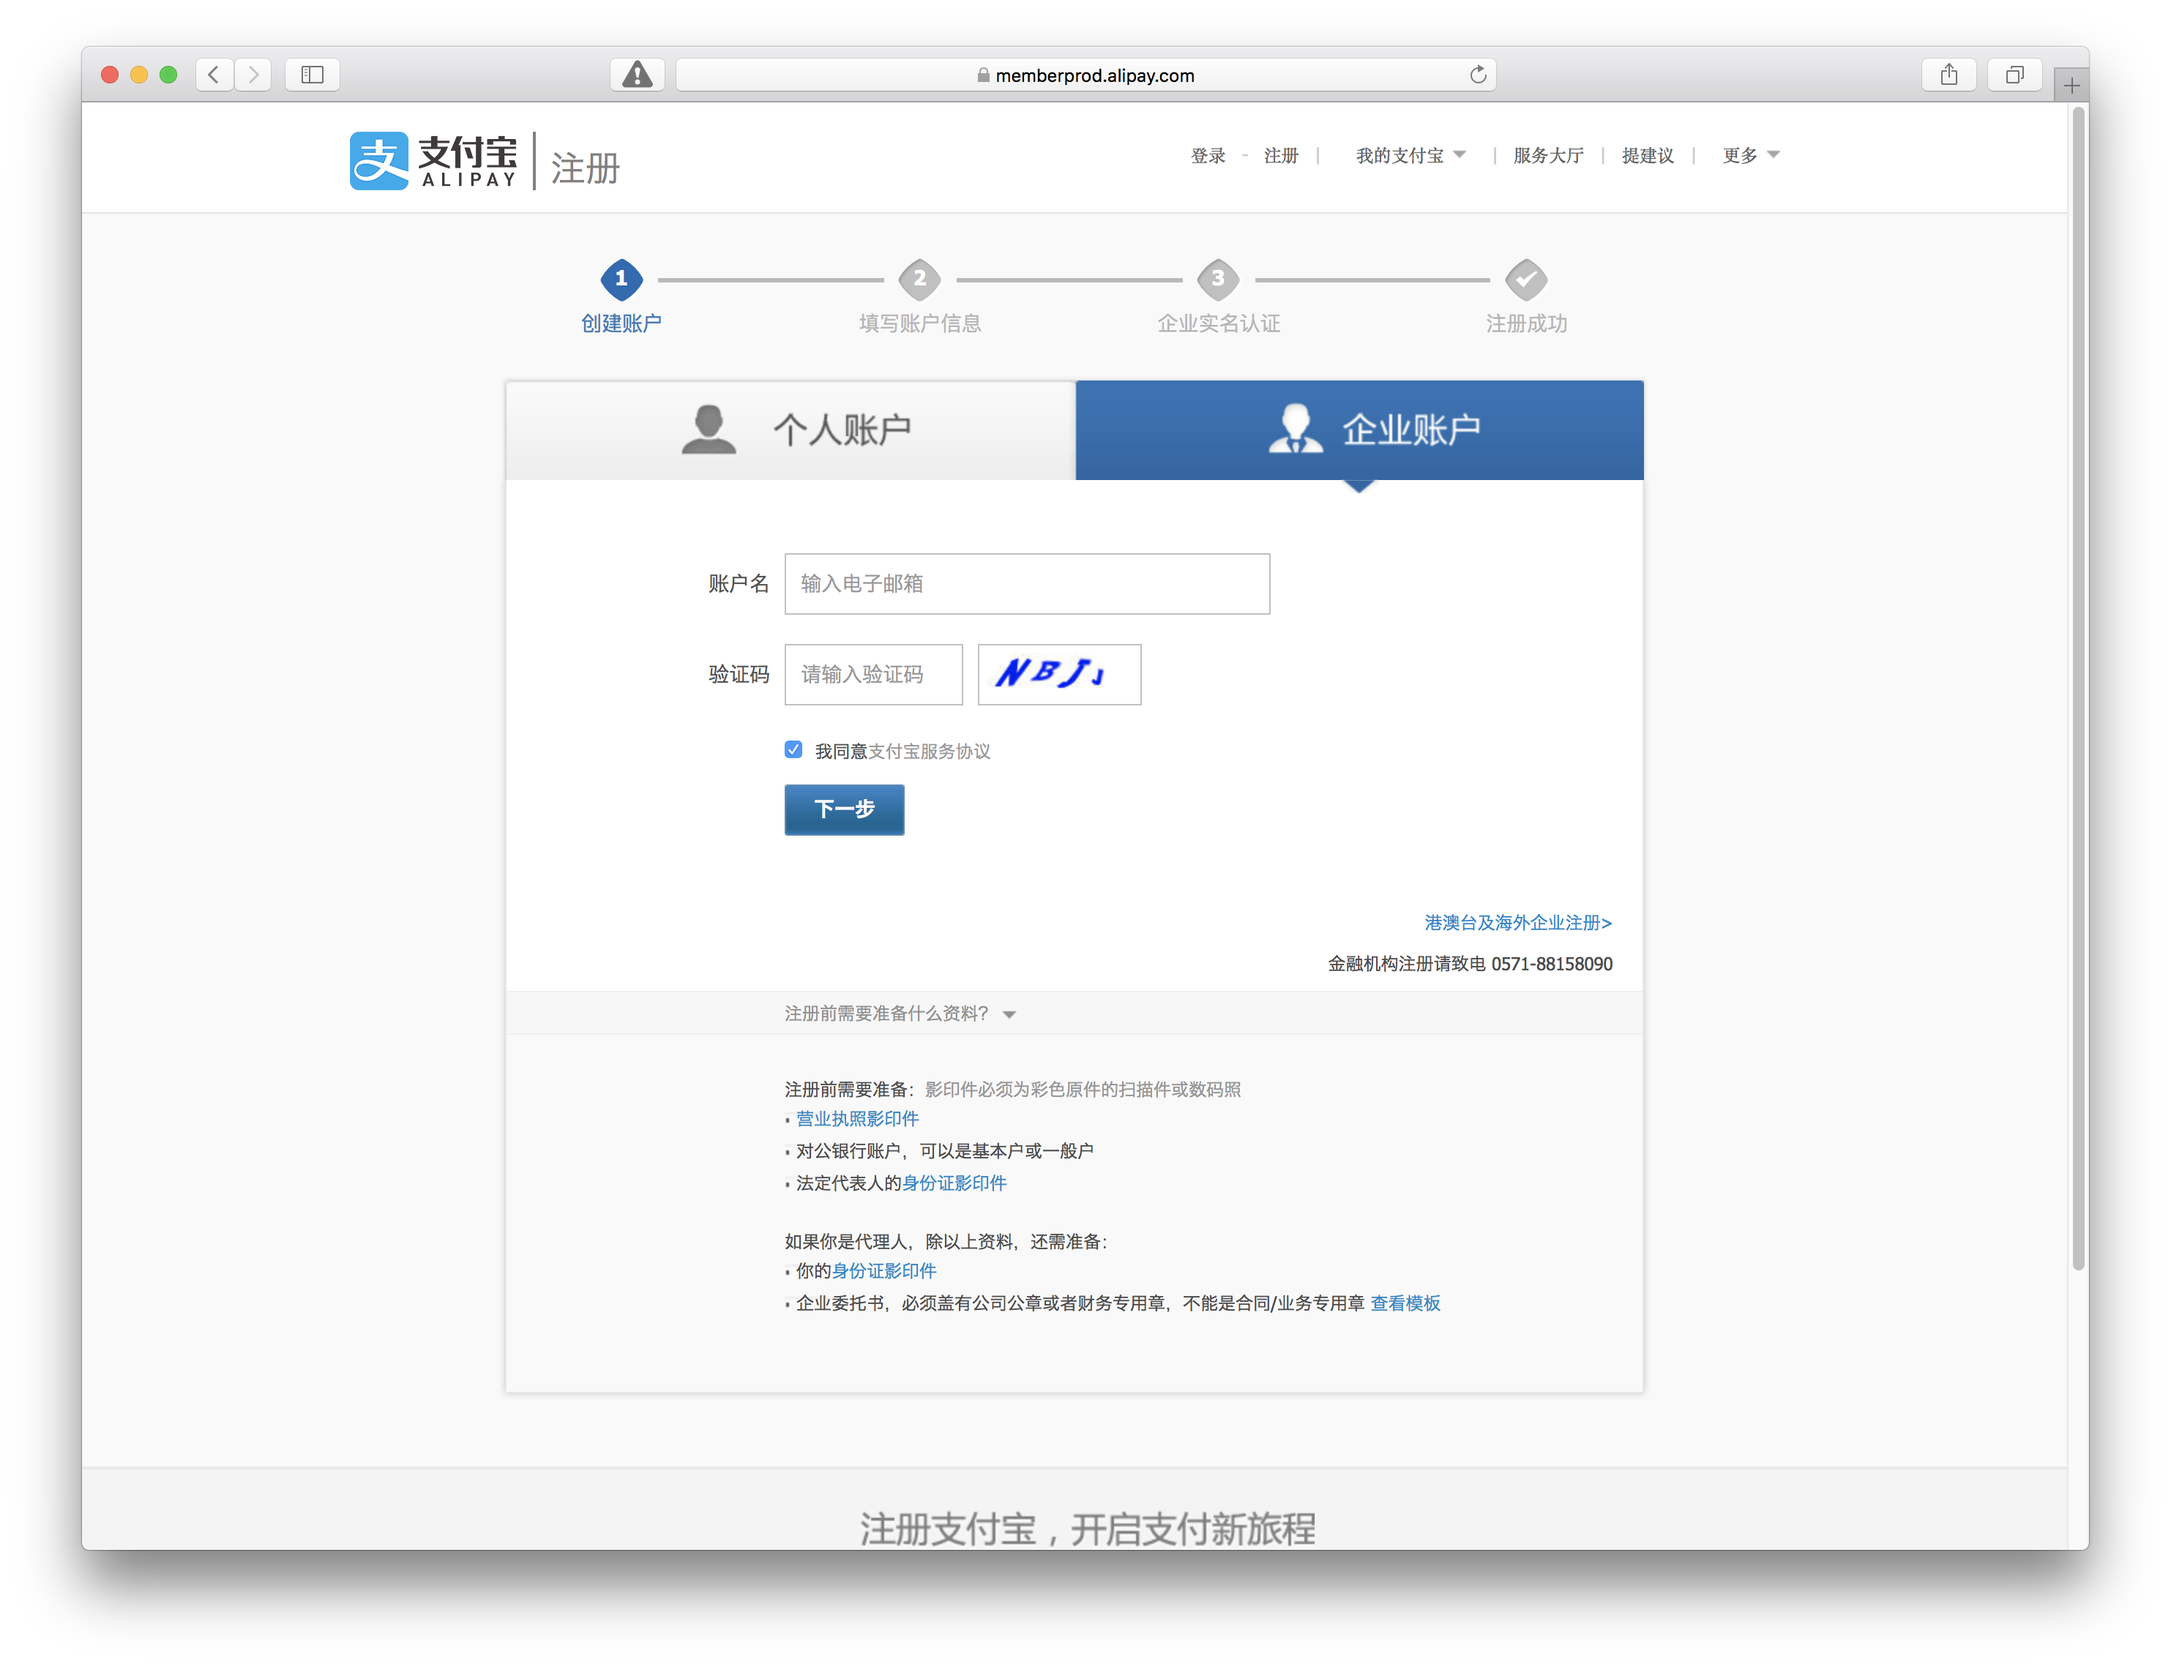
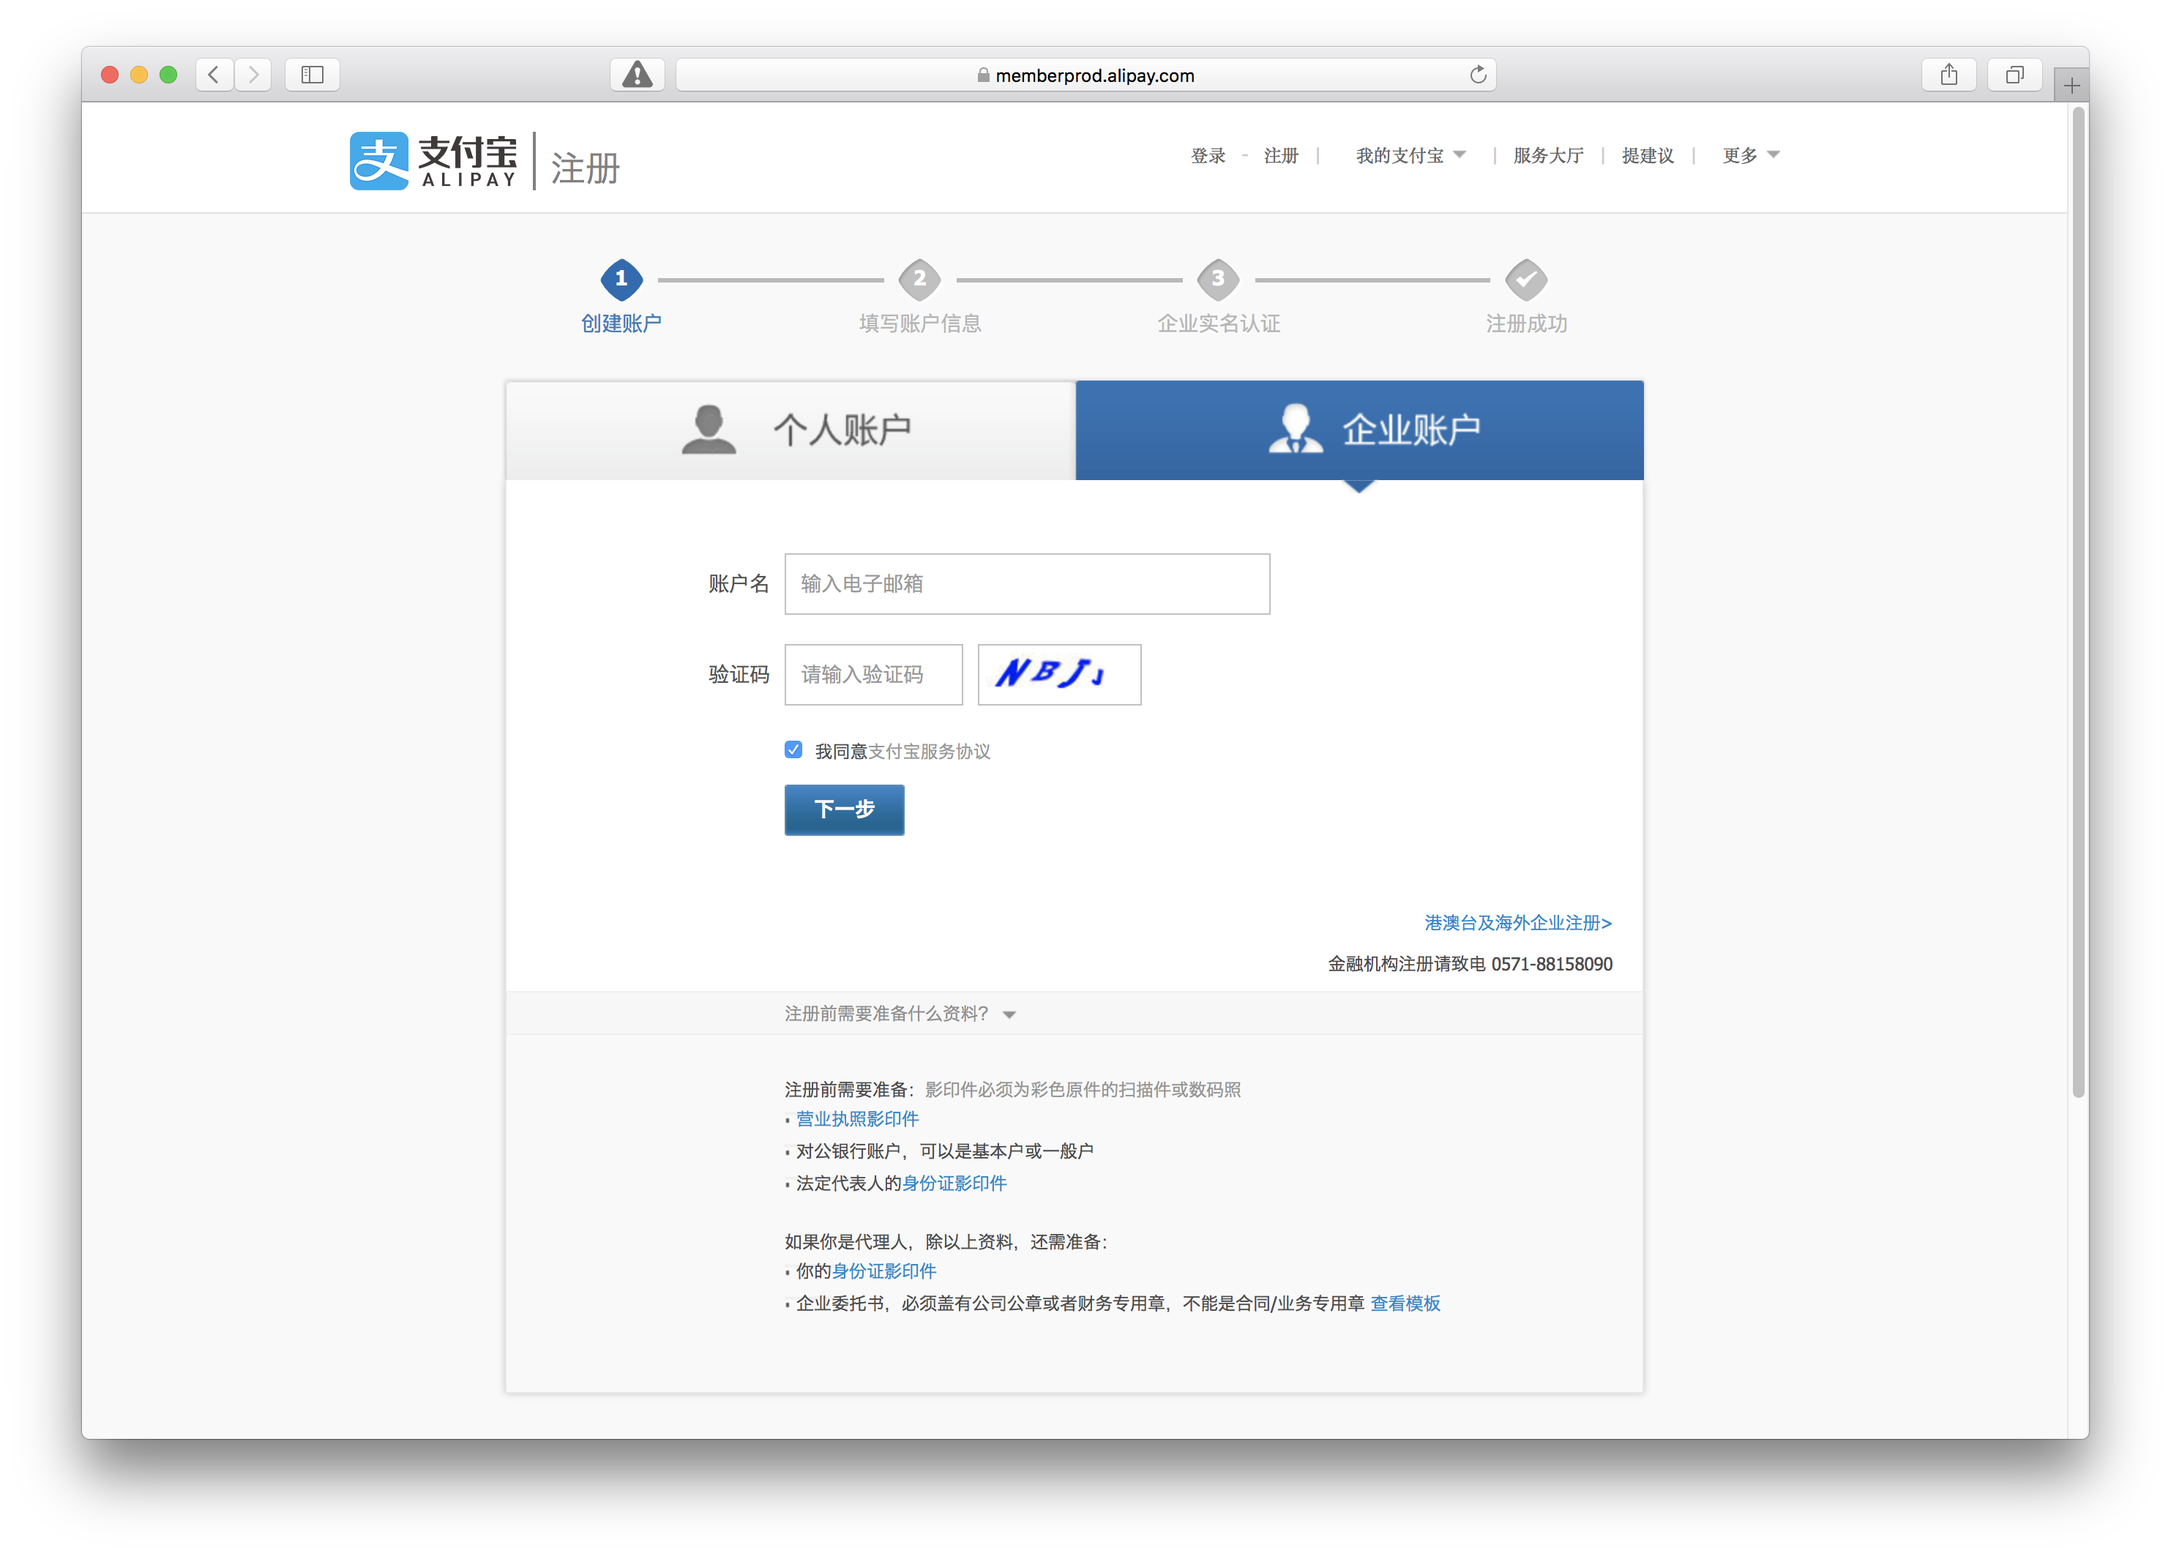
alipay signup image

diff --git a/blog/cn/README.md b/blog/cn/README.md
@@ -456,6 +456,10 @@ $ git diff
 
 ##### 支付宝
 
+注册支付宝企业账户
+
+![注册支付宝企业账户](https://github.com/yeegr/SingularJS/blob/master/blog/img/alipay_signup.png?raw=true "注册支付宝企业账户")
+
 ##### 阿里大于
 
 #### 软件
